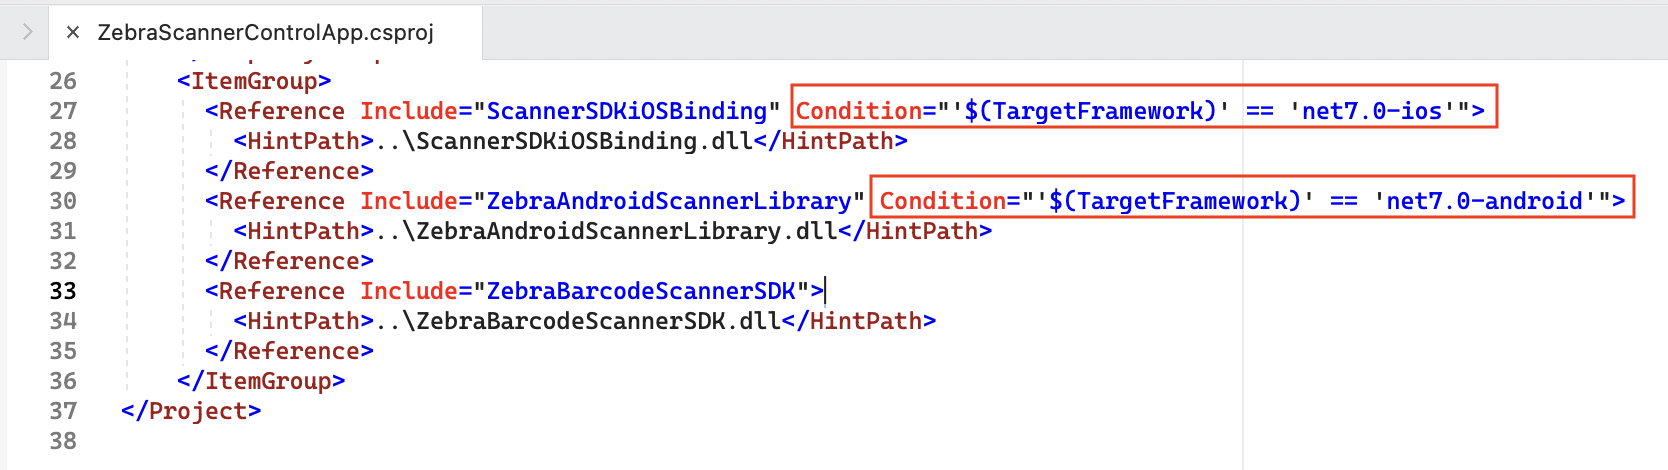
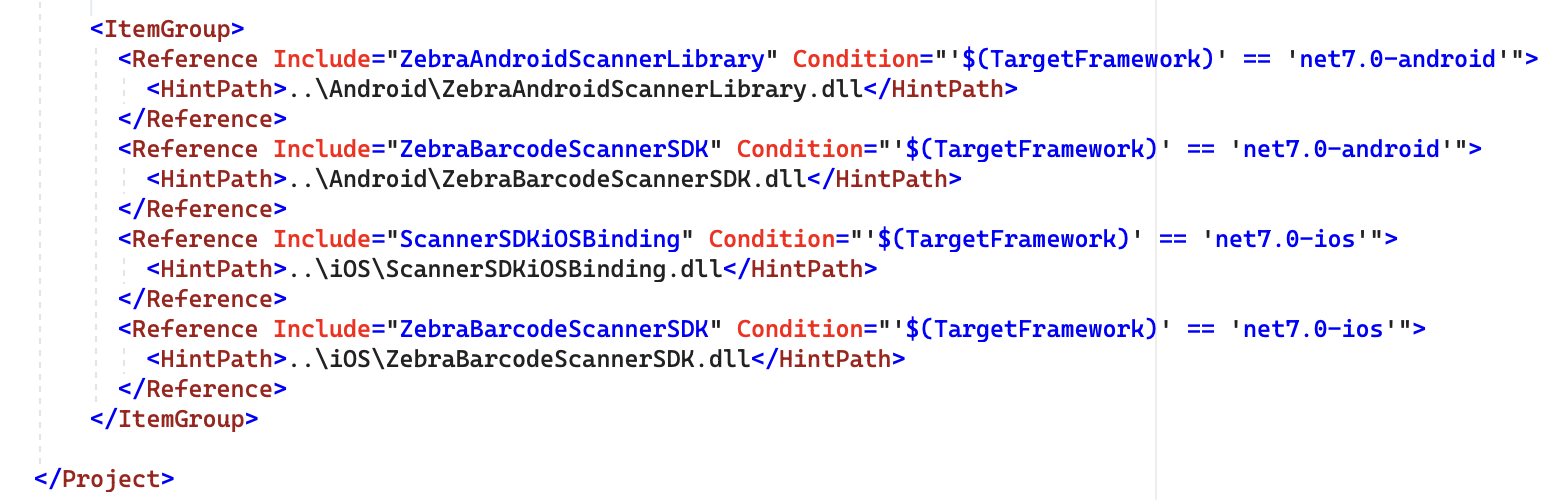
[SSDK-19322] .NET MAUI Updates for Scanner SDKs.
DCS TechDocs main page icons updated. .NET MAUI images updated to align with new changes in the wrapper. The download page is added to the Zebra Support page.

Changed region(s): [[0.0312, 0.0298, 1.0, 0.8936], [0.0312, 0.9234, 0.125, 0.983]]

diff --git a/dcs/scanners/maui/download/index.html b/dcs/scanners/maui/download/index.html
@@ -7,8 +7,8 @@
         <meta name="author" content="Zebra Technologies">
         <meta name="google-site-verification" content="i4B78BrWnNy8ShJwe5feRW3jO3HE6gfYlYqYbxfl8yY">
         <meta name="msvalidate.01" content="6B651B00161BCE79B8950AC09D5C4C75">
-        <meta title="AFM for Windows">
-        <title>.NET MAUI Wrapper for Scanner SDK - About - Zebra Technologies</title>
+        <meta title="Download SMS for Windows">
+        <title>.NET MAUI Wrapper for Scanner SDK - Download - Zebra Technologies</title>
         <!-- core CSS -->
         <link href="/css/bootstrap.min.css" rel="stylesheet">
         <link href="/css/font-awesome.min.css" rel="stylesheet">
@@ -20,15 +20,15 @@
         <link href="/css/responsive.css" rel="stylesheet">
         <link href="/css/prettify.css" rel="stylesheet">
         <link href="/css/bootstrap-treenav.min.css" rel="stylesheet">
-        <link href="../../dcs_styles.css" rel="stylesheet">
         <!--[if lt IE 9]>
         <script src="js/html5shiv.js"></script>
         <script src="js/respond.min.js"></script>
         <![endif]--> 
+
[1 lines of base64/hex data omitted]
         <link rel="shortcut icon" href="/favicon.ico">
         <script src="/js/jquery.js"></script>
-    </head>
+    </head><!--/head-->
     <body id="home" class="homepage" data-spy="scroll" data-offset="100" data-target="#toc">
         <header id="header">
             <nav id="main-menu" class="navbar navbar-default navbar-fixed-top" role="banner">
@@ -40,9 +40,8 @@
                             <span class="icon-bar"></span>
                             <span class="icon-bar"></span>
                         </button>
-                        <a class="navbar-brand" href="/">
-                            <img src="/images/logo.png" alt="logo" style="max-height:66px;float: inherit; padding-right: 3px;">
-                        </a> 
+                        <a class="navbar-brand" href="/"><img src="/images/logo.png" alt="logo" style="max-height:42px;float: inherit;
+        padding-right: 3px;"></a>
                     </div>
                     <div class="collapse navbar-collapse navbar-left">
                         <ul class="nav navbar-nav">
@@ -50,7 +49,7 @@
                             <li>
                                 <a href="/dcs/scanners">Barcode Scanner Tools</a>
                             </li>
-                            <p class="navbar-text">.NET MAUI Wrapper for Scanner SDK (Android and iOS)</p>
+                            <p class="navbar-text">.NET MAUI Wrapper for Scanner SDK</p>
                         </ul>
                     </div>
                     <div class="collapse navbar-collapse navbar-right">
@@ -79,35 +78,36 @@
                             <div class="col-sm-3 hidden-sm hidden-xs" id="sidebar">
                                 <nav id="toc" data-toggle="toc" data-spy="affix" style="height: 75%; max-width: 225px; overflow-y: auto; ">
                                     <ul class="nav">
-                                        <li><strong>Active .NET MAUI Wrapper for Scanner SDK (Android and iOS)</strong></li>
+                                        <li><strong>.NET MAUI Wrapper for Scanner SDK (Android and iOS)</strong></li>
                                     </ul>
-                                </nav>                    
-                                <script type="text/javascript">
+                                </nav>
+                                <!--Left navigation removed from the download page.-->
+                                <!--<script type="text/javascript">
                                     $(document).ready(function() {
-                        	            $( "#btn_SaveSmartDocOptions" ).click(function() {
-                      			            console.log('Saving Options');
-                      			            $("#modal-smartdocs").modal({show: false});
-                    		            });
-                        	            $( "#btn_SaveSmartDocOptions" ).click(function() {
-                      			            console.log('Clearing Options');
-                      			            $("#modal-smartdocs").modal({show: false});
-                    		            });
+                                        $( "#btn_SaveSmartDocOptions" ).click(function() {
+                                            console.log('Saving Options');
+                                            $("#modal-smartdocs").modal({show: false});
+                                        });
+                                        $( "#btn_SaveSmartDocOptions" ).click(function() {
+                                            console.log('Clearing Options');
+                                            $("#modal-smartdocs").modal({show: false});
+                                        });
                                     });
-                                </script>
-                                <link rel="stylesheet" href="https://cdn.rawgit.com/afeld/bootstrap-toc/v0.3.0/dist/bootstrap-toc.min.css">
+                                </script><link rel="stylesheet" href="https://cdn.rawgit.com/afeld/bootstrap-toc/v0.3.0/dist/bootstrap-toc.min.css">
                                 <script src="https://cdn.rawgit.com/afeld/bootstrap-toc/v0.3.0/dist/bootstrap-toc.min.js"></script>
                                 <script type="text/javascript">
-                                    $(document).ready(function() {                    
+                                    $(document).ready(function() {
+                                
                                     });
-                                </script>
+                                </script>-->
                             </div>                
                             <div class="col-sm-9 ">
                                 <div class="row">
                                     <div class="col-sm-12">
                                         <section id="cta" class="wow fadeIn">
                                             <div class="">
-                                                <h1 id="about-afm-windows" class="anchor">
-                                                    <a class="heading-anchor" href="#about-afm-windows"><span></span></a>About .NET MAUI Wrapper for Scanner SDK (Android and iOS)
+                                                <h1 id="download-maui-scanner-sdk" class="anchor">
+                                                    <a class="heading-anchor" href="#download-maui-scanner-sdk"><span></span></a>.NET MAUI Wrapper for Scanner SDK (Android and iOS)
                                                 </h1>
                                             </div>
                                         </section>                    
@@ -115,54 +115,30 @@
                                 </div>
                                 <div id="mainContent" class="row">
                                     <div class="col-sm-12">
-                                        <div class="blog-post blog-large wow fadeInLeft" data-wow-duration="300ms" data-wow-delay="0ms">
-                                            <!-- Start of guide -->
-                                            <div class="service-box wow fadeInRight">
+                                        <div class="blog-post blog-large fadeInLeft" data-wow-duration="300ms" data-wow-delay="0ms">
+                                        <!-- Start of guide -->
+                                            <div class="service-box fadeInRight">
                                                 <div class="">
-                                                    <h2 id="overview" class="anchor"><a class="heading-anchor" href="#overview"><span></span></a>Overview</h2>
-
-                                                    <p>Zebra Scanner SDK for .NET MAUI enables a developer to build native applications to connect and control Zebra Barcode scanners over a Bluetooth connection (no cradle involved) on iOS and Android devices from a single, shared C# codebase.</p>
-
-                                                    <p>Functionality,</p>
-
-                                                    <ul>
-                                                        <li>Discover, connect, and disconnect scanners.</li>
-                                                        <li>Barcode reading.</li>
-                                                    </ul>
-                                                    
-                                                    <hr>
-
-                                                    <h2 id="maui-supported-os-versions" class="anchor"><a class="heading-anchor" href="#maui-supported-os-versions"><span></span></a>Supported Operating Systems</h2>
-                                                    
-                                                    <p>The .NET MAUI Wrapper for Scanner SDK is supported in the following Android and iOS operating systems.</p>
-
-                                                    <ul>
-                                                        <li>Android 11.X, 12.X, and 13.X</li>
-                                                        <li>iOS 15.X, 16.X, and 17.X</li>
-                                                    </ul>
-
-                                                    <hr>
-
-                                                    <h2 id="afm-windows-supported-devices" class="anchor"><a class="heading-anchor" href="#afm-windows-supported-devices"><span></span></a>Supported Devices</h2>
-
-                                                    <p>For the compatible devices list, please visit following page.</p>
-
-                                                    <a href="https://www.zebra.com/us/en/support-downloads/software/developer-tools/scanner-sdk-for-windows.html" target="_blank">https://www.zebra.com/us/en/support-downloads/software/developer-tools/scanner-sdk-for-windows.html</a>
-
-                                                    <hr>
-
-                                                    <h2 id="versionhistory" class="anchor"><a class="heading-anchor" href="#versionhistory"><span></span></a>Version History</h2>
-
-                                                    <h3 id="version-1-0-0 class="anchor">Version 1.0.0 - 01/2024</h3>
+                                                    <h2 id="important" class="anchor"><a class="heading-anchor" href="#important"><span></span></a><code>IMPORTANT</code></h2>
+                                                    <p>
+                                                        <strong>Zebra recommends using the latest release</strong> whenever possible.
+                                                    </p>
+                                                    <br/>
+                                                    <h4 id="download-maui-scanner-sdk" class="anchor"><a class="heading-anchor" href="#download-maui-scanner-sdk"><span></span></a>To Download .NET MAUI Wrapper for Scanner SDK (Android and iOS):</h4>
                                                     <ol>
-                                                        <li>Initial release.</li>
+                                                        <li>
+                                                            Visit the <strong><a href="https://www.zebra.com/us/en/support-downloads/software/developer-tools/net-maui-wrapper.html" target="_blank">Zebra .NET MAUI Wrapper for Scanner SDK (Android and iOS) download page</a></strong> and select the desired download(s).
+                                                        </li>
+                                                        <li>
+                                                            Proceed to the .NET MAUI Wrapper for Scanner SDK (Android and iOS) <strong><a href="/dcs/scanners/maui/about/#version-history">release notes</a></strong> for the version details.
+                                                        </li>
                                                     </ol>
                                                 </div>
                                             </div>
                                         </div>
                                     </div>
                                 </div>
-                            </div>
+                            </div><!--/.col-sm-6-->
                         </div>
                     </section>
                 </div>
@@ -178,7 +154,7 @@
 					    </div>
 			        </div>
 		        </div>
-            </div>
+            </div> 
         </div>
         <footer id="footer" class="navbar-fixed-bottom">
             <div class="container-fluid">

diff --git a/dcs/scanners/maui/getting-started/index.html b/dcs/scanners/maui/getting-started/index.html
@@ -61,6 +61,11 @@
                             <li>
                                 <a href="/dcs/scanners/maui/getting-started/">Getting Started</a>
                             </li>
+                            <li>
+                                <a href="/dcs/scanners/maui/download/">
+                                    <i class="fa fa-download"></i>
+                                </a>
+                            </li>
                         </ul>
                     </div>
                 </div><!--/.container-->
@@ -188,31 +193,28 @@
                                                             </div><br />
                                                         </li>
                                                         <li>
-                                                            <p>Give a project name, a solution name and create.</p>
+                                                            <p>Provide a project name and create the project.</p>
                                                             <div style="display: block; margin: 0 auto; text-align: center;">
                                                                 <img src="../../images/maui/0006-create-project-configurations.png" style="display: block; margin: 0 auto; max-width: 70%;"><strong>Figure 6: </strong> .NET MAUI Project Configurations
                                                             </div><br />
                                                         </li>
                                                         <li>
-                                                            <p>Place the provided iOS wrapper dll (ZebraBarcodeScannerSDK.dll) inside the project.</p>
+                                                            <P>Create two directories namely “Android” and “iOS” at the same location as the project solution (*.sln) file.</P>
                                                             <div style="display: block; margin: 0 auto; text-align: center;">
-                                                                <img src="../../images/maui/0007-ios-wrapper.png" style="display: block; margin: 0 auto; max-width: 70%;"><strong>Figure 7: </strong> Project Reference for iOS Wrapper
+                                                                <img src="../../images/maui/0016-folder-structure.png" style="display: block; margin: 0 auto; max-width: 70%;"><strong>Figure 7: </strong> Folder Structure
                                                             </div><br />
                                                         </li>
                                                         <li>
-                                                            <p>Place the provided Android binding dll (ZebraAndroidScannerLibrary.dll), Android wrapper dll (ZebraBarcodeScannerSDK.dll) and iOS binding dll (ScannerSDKiOSBinding.dll) outside the project where the solution (.sln) file exists.</p>
+                                                            <p>Add the provided Android binding dll(ZebraAndroidScannerLibrary.dll) and Android wrapper dll (ZebraBarcodeScannerSDK.dll) inside the Android directory.</p>
                                                             <div style="display: block; margin: 0 auto; text-align: center;">
-                                                                <img src="../../images/maui/0008-project-dependencies.png" style="display: block; margin: 0 auto; max-width: 70%;"><strong>Figure 8: </strong> Project Dependencies
+                                                                <img src="../../images/maui/0017-folder-structure-android.png" style="display: block; margin: 0 auto; max-width: 70%;"><strong>Figure 8: </strong> Folder Structure (Android)
                                                             </div><br />
                                                         </li>
                                                         <li>
-                                                            <p>Add those three dlls as references by right clicking on Dependencies &rarr; Add Project References &rarr; .NET Assembly.</p>
-
+                                                            <p>Add the provided iOS binding dll (ScannerSDKiOSBinding.dll) and iOS wrapper dll (ZebraBarcodeScannerSDK.dll) inside the iOS directory.</p>
                                                             <div style="display: block; margin: 0 auto; text-align: center;">
-                                                                <img src="../../images/maui/0009-net-assembly.png" style="display: block; margin: 0 auto; max-width: 70%;"><strong>Figure 9: </strong> .NET Assembly
+                                                                <img src="../../images/maui/0018-folder-structure-ios.png" style="display: block; margin: 0 auto; max-width: 70%;"><strong>Figure 9: </strong> Folder Structure (iOS)
                                                             </div><br />
-
-                                                            <p><strong>Note:</strong> Only the iOS wrapper dll is retained inside the project, while the Android wrapper dll and the Android & iOS binding dlls are kept outside. This is because the current version of MAUI does not work when two files with the same name (Android wrapper and iOS wrapper) are included in the references.</p>
                                                         </li>
                                                         <li>
                                                             <p>Right click on project file &rarr; Edit project file.</p>
@@ -222,7 +224,7 @@
                                                             </div><br />
                                                         </li>
                                                         <li>
-                                                            <p>Add the below mentioned conditions for Android and iOS binding libraries.</p>
+                                                            <p>Add the below lines inside the project file to add the libraries as references for the project.</p>
 
                                                             <div style="display: block; margin: 0 auto; text-align: center;">
                                                                 <img src="../../images/maui/0011-binding-libraries.png" style="display: block; margin: 0 auto; max-width: 70%;"><strong>Figure 11: </strong> Binding Libraries

diff --git a/dcs/scanners/index.html b/dcs/scanners/index.html
@@ -729,6 +729,23 @@
                                     </div>
                                 </div>
                             </button>
+                            <button class="tablink" onclick="openPage('tab_maui', this, '')">
+                                <div class="media" style="margin-bottom: 20px;">
+                                    <div class="media-left " style="max-width: 120px; max-height: 120px; margin-right: 10px;">
+                                        <a href="#">
+                                            <i>
+                                                <img src="images/common/dot-net-maui.png" width="48px" height="48px"/>
+                                            </i>
+                                        </a>
+                                    </div>
+                                    <div class="media-body" style="vertical-align: middle;">
+                                        <h4 class="media-heading anchor" id="maui">
+                                            <a class="heading-anchor" href="#maui"><span></span></a>
+                                            <a href="#">.NET MAUI</a>
+                                        </h4>
+                                    </div>
+                                </div>
+                            </button>
                             <!-- ChromeOS unpublished on 04/2022 -->
                             <!--
                                 <button class="tablink" onclick="openPage('tab_chromeos', this, '')">
@@ -1278,7 +1295,34 @@
                                 </div>
                             </div>
                         </div>
-                    </div>                    
+                    </div>
+                    
+                    <div id="tab_maui" class="tabcontent">
+                        <!-- .NET MAUI Products -->
+                        <div class="row">
+                            <div class="col-sm-12 col-md-6">
+                                <div class="team-member wow fadeInUp" data-wow-duration="400ms" data-wow-delay="0ms">
+                                    <div class="media">
+                                        <div class="media-left " style="width: 72px; height: 72px; margin-right: 10px;">
+                                            <a href="/dcs/scanners/maui/about/">
+                                                <img src="images/scanner-sdk-image-1.png">
+                                            </a>
+                                        </div>
+                                        <div class="media-body" style="padding-left: 15px;">
+                                            <h4 class="media-heading anchor" id="dot-net-maui-sdk">
+                                                <a class="heading-anchor" href="#dot-net-maui-sdk"><span></span></a>
+                                                <a href="/dcs/scanners/maui/about/">.NET MAUI Wrapper for Scanner SDK (Android & iOS)</a>
+                                            </h4>
+                                            <p>Zebra .NEW MAUI Wrapper for Scanner SDK enables a developer to build native applications to connect and control Zebra Barcode scanners on iOS and Android devices from a single, shared C# and XAML codebase.</p>
+                                            <a href="/dcs/scanners/maui/about/"><span class="label label-primary">Overview</span></a>
+                                            <a href="/dcs/scanners/maui/getting-started/"><span class="label label-primary">Getting Started</span></a>
+                                        </div>
+                                    </div>
+                                </div>
+                            </div>
+                        </div>
+                    </div> 
+                    
                     <br/>
                     <!-- Document and Manuals -->
                     <!-- 05/30/2023 : Rsourced removed frrom the scanner page. Links will be available in TechDocs main menu. -->
